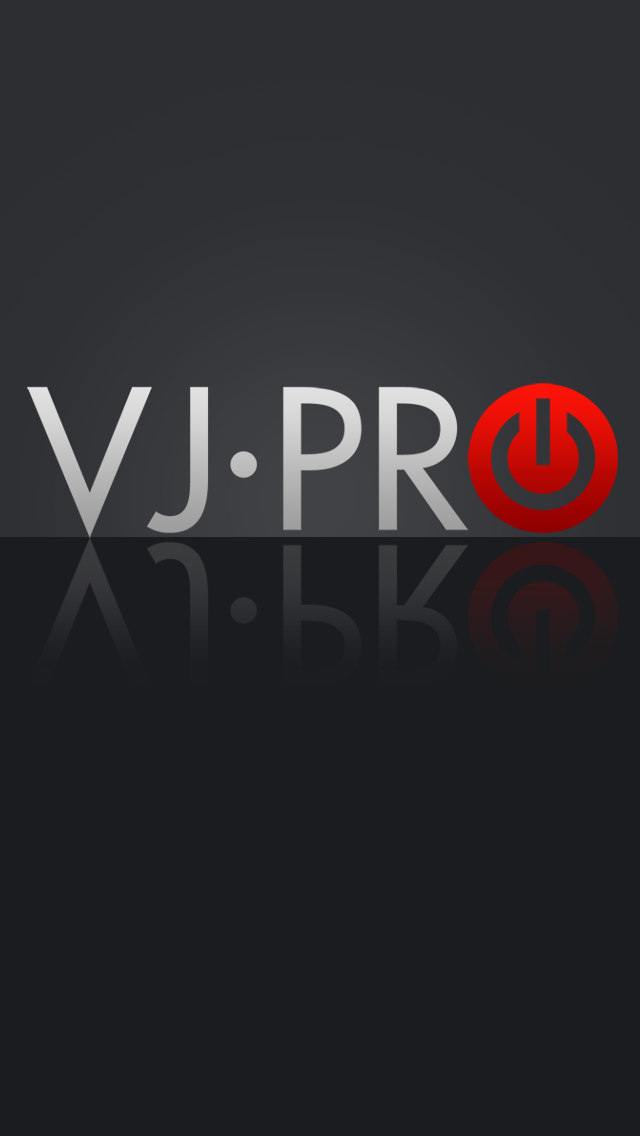
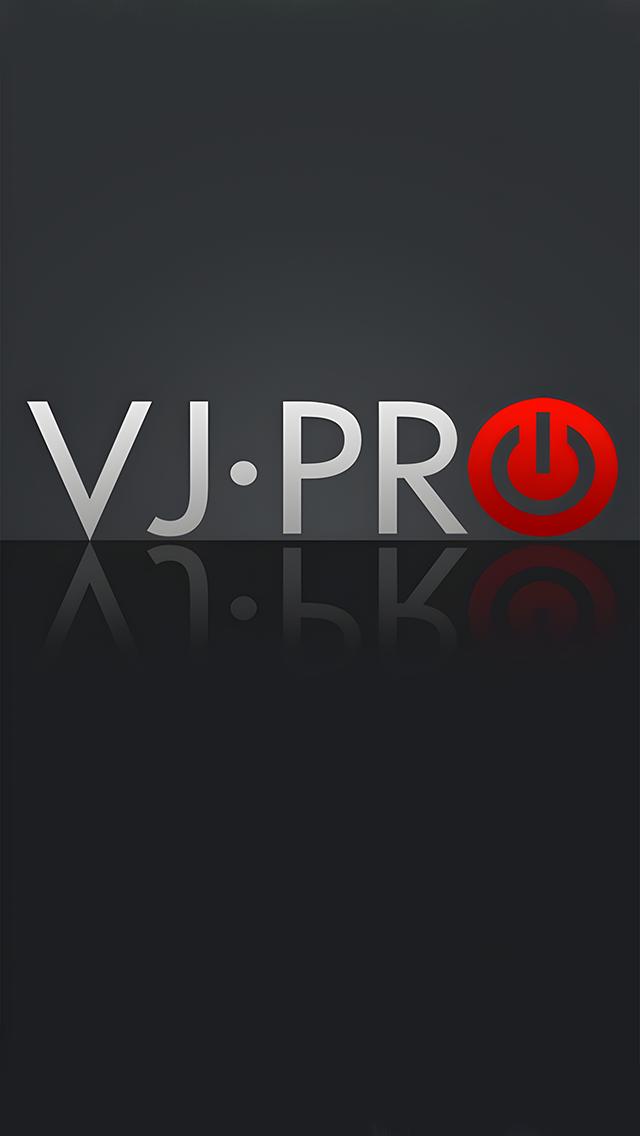
v8

diff --git a/vjpro/LaunchViewController.m b/vjpro/LaunchViewController.m
@@ -1,0 +1,129 @@
+//
+//  LaunchViewController.m
+//  vjpro
+//
+//  Custom launch screen with content mode control
+//
+
+#import "LaunchViewController.h"
+
+@interface LaunchViewController ()
+@property (nonatomic, strong) UIImageView *launchImageView;
+@end
+
+@implementation LaunchViewController
+
+- (void)viewDidLoad {
+    [super viewDidLoad];
+    
+    // Set background color to black (matches your app design)
+    self.view.backgroundColor = [UIColor blackColor];
+    
+    // Create image view with the launch image
+    // Use "Default-568h@2x" or whatever your launch image is named
+    UIImage *launchImage = [self launchImage];
+    
+    _launchImageView = [[UIImageView alloc] initWithImage:launchImage];
+    _launchImageView.contentMode = UIViewContentModeScaleAspectFill;
+    _launchImageView.clipsToBounds = YES;
+    _launchImageView.frame = self.view.bounds;
+    _launchImageView.autoresizingMask = UIViewAutoresizingFlexibleWidth | UIViewAutoresizingFlexibleHeight;
+    
+    [self.view addSubview:_launchImageView];
+    
+    // Debug logging
+    NSLog(@"=== LAUNCH SCREEN DEBUG ===");
+    NSLog(@"Screen bounds: %@", NSStringFromCGRect([UIScreen mainScreen].bounds));
+    NSLog(@"Launch image size: %@", NSStringFromCGSize(launchImage.size));
+    NSLog(@"Content mode: ScaleAspectFill");
+    NSLog(@"===========================");
+}
+
+- (void)viewDidAppear:(BOOL)animated {
+    [super viewDidAppear:animated];
+    
+    // Transition to the main app after a brief delay
+    // Adjust the delay as needed (0.5-2.0 seconds is typical)
+    [self performSelector:@selector(transitionToMainApp) withObject:nil afterDelay:1.0];
+}
+
+- (void)transitionToMainApp {
+    // Simply fade out the launch screen overlay
+    [UIView animateWithDuration:0.5 animations:^{
+        self.view.alpha = 0.0;
+    } completion:^(BOOL finished) {
+        [self.view removeFromSuperview];
+    }];
+}
+
+- (UIImage *)launchImage {
+    // Determine the correct launch image based on device screen size
+    CGSize screenSize = [UIScreen mainScreen].bounds.size;
+    CGFloat scale = [UIScreen mainScreen].scale;
+    
+    NSString *imageName = nil;
+    
+    // Get device dimensions (accounting for portrait/landscape)
+    CGFloat height = MAX(screenSize.width, screenSize.height);
+    CGFloat width = MIN(screenSize.width, screenSize.height);
+    
+    if (scale == 2.0) {
+        if (height == 568.0) {
+            // iPhone SE (1st gen), 5, 5s, 5c - 4 inch screen
+            imageName = @"Default-568h@2x";
+        } else if (height == 667.0) {
+            // iPhone 6, 6s, 7, 8, SE (2nd/3rd gen) - 4.7 inch
+            imageName = @"Default-667h@2x";
+        } else if (height == 736.0) {
+            // iPhone 6+, 6s+, 7+, 8+ - 5.5 inch
+            imageName = @"Default-736h@3x";
+        } else if (height == 812.0) {
+            // iPhone X, XS, 11 Pro, 12 mini, 13 mini
+            imageName = @"Default-812h@3x";
+        }
+    } else if (scale == 3.0) {
+        if (height == 812.0) {
+            // iPhone X, XS, 11 Pro, 12 mini, 13 mini
+            imageName = @"Default-812h@3x";
+        } else if (height == 896.0) {
+            // iPhone XR, XS Max, 11, 11 Pro Max
+            imageName = @"Default-896h@3x";
+        } else if (height == 844.0) {
+            // iPhone 12, 12 Pro, 13, 13 Pro, 14
+            imageName = @"Default-844h@3x";
+        } else if (height == 926.0) {
+            // iPhone 12 Pro Max, 13 Pro Max, 14 Plus
+            imageName = @"Default-926h@3x";
+        }
+    }
+    
+    // Try to load the device-specific image
+    UIImage *image = nil;
+    if (imageName) {
+        image = [UIImage imageNamed:imageName];
+    }
+    
+    // Fallback to generic launch images or background
+    if (!image) {
+        image = [UIImage imageNamed:@"Default@2x"];
+    }
+    if (!image) {
+        image = [UIImage imageNamed:@"Default"];
+    }
+    if (!image) {
+        // Last resort: use the background_login image
+        image = [UIImage imageNamed:@"background_login"];
+    }
+    
+    return image;
+}
+
+- (BOOL)prefersStatusBarHidden {
+    return YES;
+}
+
+- (UIStatusBarStyle)preferredStatusBarStyle {
+    return UIStatusBarStyleLightContent;
+}
+
+@end

diff --git a/vjpro/ViewController.m b/vjpro/ViewController.m
@@ -80,6 +80,14 @@
     _txtEmail.attributedPlaceholder = [[NSAttributedString alloc] initWithString:@"E-mail Address" attributes:@{NSForegroundColorAttributeName: color}];
     _txtPassword.attributedPlaceholder = [[NSAttributedString alloc] initWithString:@"Password" attributes:@{NSForegroundColorAttributeName: color}];
     
+    // Reinforce placeholder colors
+    if (_txtEmail.placeholder.length > 0) {
+        _txtEmail.attributedPlaceholder = [[NSAttributedString alloc] initWithString:_txtEmail.placeholder attributes:@{NSForegroundColorAttributeName: color}];
+    }
+    if (_txtPassword.placeholder.length > 0) {
+        _txtPassword.attributedPlaceholder = [[NSAttributedString alloc] initWithString:_txtPassword.placeholder attributes:@{NSForegroundColorAttributeName: color}];
+    }
+    
     //text box left padding
     _txtEmail.leftView = [[UIView alloc] initWithFrame:CGRectMake(0, 0, 12, 20)];
     _txtEmail.leftViewMode = UITextFieldViewModeAlways;
@@ -87,6 +95,12 @@
     _txtPassword.leftView = [[UIView alloc] initWithFrame:CGRectMake(0, 0, 12, 20)];
     _txtPassword.leftViewMode = UITextFieldViewModeAlways;
     _txtPassword.backgroundColor = [UIColor whiteColor];
+    
+    // Ensure login text fields are always readable
+    _txtEmail.textColor = [UIColor blackColor];
+    _txtPassword.textColor = [UIColor blackColor];
+    _txtEmail.keyboardAppearance = UIKeyboardAppearanceLight;
+    _txtPassword.keyboardAppearance = UIKeyboardAppearanceLight;
     
     myFrame = _viewLogin.frame;
     int bgmargin = 0;
@@ -505,4 +519,14 @@
     [UIView commitAnimations];
 }
 
+- (void)traitCollectionDidChange:(UITraitCollection *)previousTraitCollection {
+    [super traitCollectionDidChange:previousTraitCollection];
+    // Keep login fields readable across appearances
+    _txtEmail.textColor = [UIColor blackColor];
+    _txtPassword.textColor = [UIColor blackColor];
+    _txtEmail.backgroundColor = [UIColor whiteColor];
+    _txtPassword.backgroundColor = [UIColor whiteColor];
+}
+
 @end
+

diff --git a/vjpro/AppDelegate.m b/vjpro/AppDelegate.m
@@ -7,12 +7,18 @@
 //
 
 #import "AppDelegate.h"
+#import "LaunchViewController.h"
 
 @implementation AppDelegate
 
 
 - (BOOL)application:(UIApplication *)application didFinishLaunchingWithOptions:(NSDictionary *)launchOptions
 {
+    // Add custom launch screen overlay FIRST (before anything else)
+    LaunchViewController *launchVC = [[LaunchViewController alloc] init];
+    [self.window addSubview:launchVC.view];
+    launchVC.view.frame = self.window.bounds;
+    
     // Set global tab bar item title font (normal state)
     [[UITabBarItem appearance] setTitleTextAttributes:@{
         NSFontAttributeName: [UIFont systemFontOfSize:10.0]

diff --git a/vjpro/LaunchViewController.h b/vjpro/LaunchViewController.h
@@ -1,0 +1,12 @@
+//
+//  LaunchViewController.h
+//  vjpro
+//
+//  Custom launch screen with content mode control
+//
+
+#import <UIKit/UIKit.h>
+
+@interface LaunchViewController : UIViewController
+
+@end
